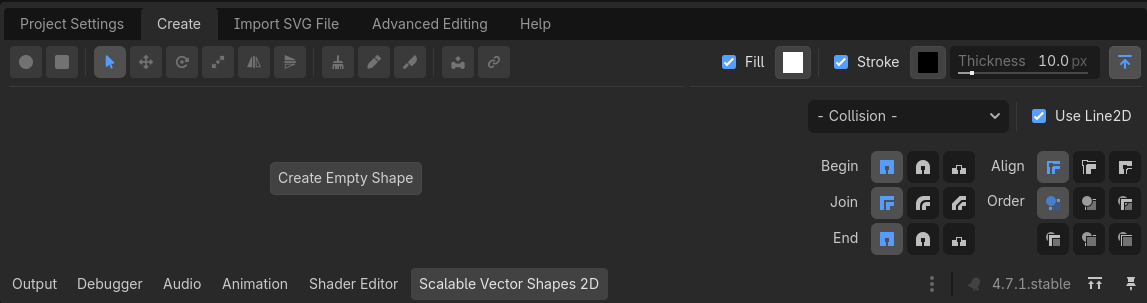
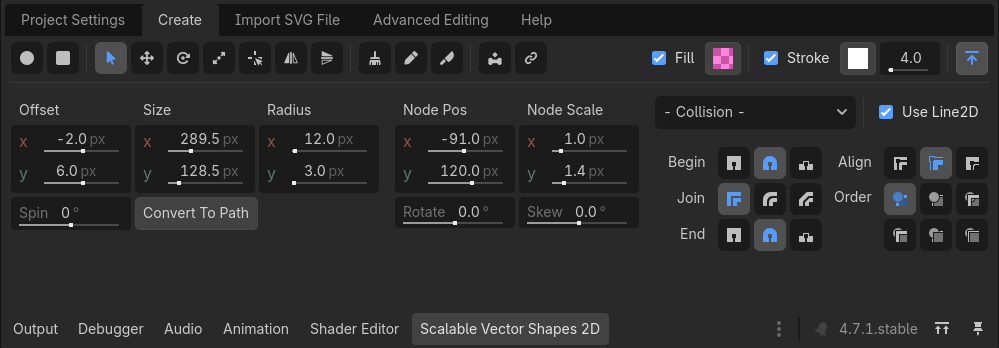
updates readme.

diff --git a/README.md b/README.md
@@ -87,6 +87,9 @@ You can find the rest of the explainer videos on this playlist:
 	- [Changing the width curve of a Stroke (`Line2D`-Stroke only)](#changing-the-width-curve-of-a-stroke-line2d-stroke-only)
 	- [Setting the pivot of your shape](#setting-the-pivot-of-your-shape)
 	- [Sticking two or more shapes together by vertex merge](#sticking-two-or-more-shapes-together-by-vertex-merge)
+- [The select tool settings form](#the-select-tool-settings-form)
+	- [Shape Type Settings](#shape-type-settings)
+	- [Node2D properties](#node2d-properties)
 - [Free-hand Drawing](#free-hand-drawing)
 	- [Drawing strokes and outlines with the Pencil Tool](#drawing-strokes-and-outlines-with-the-pencil-tool)
 		- [Pencil tool settings](#pencil-tool-settings)
@@ -192,10 +195,11 @@ In the next section all these tools are described in more detail:
 
 - [Create Ellipse](#the-create-ellipse-tool)
 - [Create Rectangle](#the-create-rectangle-tool)
-- Selection Tool (Q), also used for [manipulating shapes](#manipulating-shapes)
+- [Selection Tool](#manipulating-shapes) (Q), used for manipulating shapes
 - [Unform Translate](#moving-translating-all-the-points) (Z), which moves the points of the shape without moving the entire godot node
 - [Uniform Rotate](#rotating-all-the-points) (X), which rotates only the points and not the node
 - [Uniform Scale](#resizing-all-the-points) (C), which resizes the points without scaling the node
+- [Set Pivot](#setting-the-pivot-of-your-shape) (A), to set the shape's pivot
 - [Flip Horizontal and Vertical](#flipping-paths)
 - [Brush tool](#drawing-polygons-using-the-brush-tool) (Shift+B), with which you can paint with an Ellipse/Rectangle shaped brush
 - [Pencil tool](#drawing-strokes-and-outlines-with-the-pencil-tool) (Shift+N) to draw strokes, or outlines
@@ -461,10 +465,11 @@ Arcs are flipped by toggling negating the `sweep` flag of each listed arc.
 
 # Manipulating shapes
 
-The hints in the 2D viewport should have you covered, but this section lists all the operations available to you. You can also watch the chapter on sculpting paths on youtube:
+The hints in the 2D viewport should have you covered, but this section lists all the operations available to you.
 
-[![sculpting paths on youtube](./addons/curved_lines_2d/screenshots/sculpting-paths-on-youtube.png)](https://www.youtube.com/watch?v=z8Y1e-TehoE&t=710s)
+This [section from the A-Z Explainer video](https://www.youtube.com/watch?v=z8Y1e-TehoE&t=710s) demonstrates most operations, but some things have changed since then. Especially the layout in the bottom dock since release 3.0.1. 
 
+The select tool now also hosts [its own settings form](#the-select-tool-settings-form), to make some common properties easier to find than hidden away in the inspector.
 
 ## Adding a point to a shape
 
@@ -578,7 +583,11 @@ Press `Right click` while holding `Ctrl` to remove a width curve control point:
 
 ## Setting the pivot of your shape
 
-You can use the `Change pivot` mode to change the origin of your shape, just like you would a `Sprite2D`. In this case, the 'pivot' will actually be the `position` property of you `ScalableVectorShape2D` node.
+You can use the `Change pivot` mode to change the origin of your shape, just like you would a `Sprite2D`. 
+
+This same tool is also available from the bottom dock and via the Shortcut A.
+
+In this case, the 'pivot' will actually be the `position` property of you `ScalableVectorShape2D` node.
 
 This rat will want to rotate it's head elsewhere:
 
@@ -587,6 +596,9 @@ This rat will want to rotate it's head elsewhere:
 Like this:
 
 ![set origin 2](./addons/curved_lines_2d/screenshots/16a-set_origin.png)
+
+Note that child nodes of the shape will also move position, unless they're the assigned polygon and line nodes.
+
 
 ## Sticking two or more shapes together by vertex merge
 
@@ -601,6 +613,32 @@ This allows you to link one point of 2 or more shapes together, so they will now
 This action create a new instance of the `SVSVertexMerge2D` node. Delete this node to break the link between points.
 
 ![merge 2 points](./addons/curved_lines_2d/screenshots/svs_vertex_merge_2d_node.png)
+
+
+# The select tool settings form
+
+When a `ScalableVectorShape2D` node is selected during select mode some of its most common properties can be altered in the bottom dock (besides the inspector).
+
+![Select Tool Form](./addons/curved_lines_2d/screenshots/select-tool-form.png)
+
+## Shape Type Settings
+
+The fields here are the same as the [shape type settings](#the-shape-type-inspector-form) in the inspector and only work on primitve rectangles and ellipses:
+
+- Offset: this represents the position of the pivot relative to the shape's natural center.
+- Size: the box size of the entire shape (stroke thickness excluded)
+- Radius: the radius of the shape in case of ellipses and radius of rounded corners in case of rectangles.
+- Spin: the shape's rotation relative to its natural center
+
+There is also a "convert to path" button which turns the shape into a Bézier curve. This operation cannot be properly undone.
+
+## Node2D properties
+
+- Node Pos: this is the [`Node2D.position`](https://docs.godotengine.org/en/stable/classes/class_node2d.html#class-node2d-property-position)
+- Node Scale: this is the [`Node2D.scale`](https://docs.godotengine.org/en/stable/classes/class_node2d.html#class-node2d-property-scale)
+- Rotate: this is the [`Node2D.rotation`](https://docs.godotengine.org/en/stable/classes/class_node2d.html#class-node2d-property-rotation)
+- Skew: this is the [`Node2D.skew`](https://docs.godotengine.org/en/stable/classes/class_node2d.html#class-node2d-property-skew)
+
 
 # Free-hand Drawing
 

diff --git a/addons/curved_lines_2d/README.md b/addons/curved_lines_2d/README.md
@@ -87,6 +87,9 @@ You can find the rest of the explainer videos on this playlist:
   - [Changing the width curve of a Stroke (`Line2D`-Stroke only)](#changing-the-width-curve-of-a-stroke-line2d-stroke-only)
   - [Setting the pivot of your shape](#setting-the-pivot-of-your-shape)
   - [Sticking two or more shapes together by vertex merge](#sticking-two-or-more-shapes-together-by-vertex-merge)
+- [The select tool settings form](#the-select-tool-settings-form)
+  - [Shape Type Settings](#shape-type-settings)
+  - [Node2D properties](#node2d-properties)
 - [Free-hand Drawing](#free-hand-drawing)
   - [Drawing strokes and outlines with the Pencil Tool](#drawing-strokes-and-outlines-with-the-pencil-tool)
     - [Pencil tool settings](#pencil-tool-settings)
@@ -192,10 +195,11 @@ In the next section all these tools are described in more detail:
 
 - [Create Ellipse](#the-create-ellipse-tool)
 - [Create Rectangle](#the-create-rectangle-tool)
-- Selection Tool (Q), also used for [manipulating shapes](#manipulating-shapes)
+- [Selection Tool](#manipulating-shapes) (Q), used for manipulating shapes
 - [Unform Translate](#moving-translating-all-the-points) (Z), which moves the points of the shape without moving the entire godot node
 - [Uniform Rotate](#rotating-all-the-points) (X), which rotates only the points and not the node
 - [Uniform Scale](#resizing-all-the-points) (C), which resizes the points without scaling the node
+- [Set Pivot](#setting-the-pivot-of-your-shape) (A), to set the shape's pivot
 - [Flip Horizontal and Vertical](#flipping-paths)
 - [Brush tool](#drawing-polygons-using-the-brush-tool) (Shift+B), with which you can paint with an Ellipse/Rectangle shaped brush
 - [Pencil tool](#drawing-strokes-and-outlines-with-the-pencil-tool) (Shift+N) to draw strokes, or outlines
@@ -461,10 +465,11 @@ Arcs are flipped by toggling negating the `sweep` flag of each listed arc.
 
 # Manipulating shapes
 
-The hints in the 2D viewport should have you covered, but this section lists all the operations available to you. You can also watch the chapter on sculpting paths on youtube:
+The hints in the 2D viewport should have you covered, but this section lists all the operations available to you.
 
-[![sculpting paths on youtube](./screenshots/sculpting-paths-on-youtube.png)](https://www.youtube.com/watch?v=z8Y1e-TehoE&t=710s)
+This [section from the A-Z Explainer video](https://www.youtube.com/watch?v=z8Y1e-TehoE&t=710s) demonstrates most operations, but some things have changed since then. Especially the layout in the bottom dock since release 3.0.1. 
 
+The select tool now also hosts [its own settings form](#the-select-tool-settings-form), to make some common properties easier to find than hidden away in the inspector.
 
 ## Adding a point to a shape
 
@@ -578,7 +583,11 @@ Press `Right click` while holding `Ctrl` to remove a width curve control point:
 
 ## Setting the pivot of your shape
 
-You can use the `Change pivot` mode to change the origin of your shape, just like you would a `Sprite2D`. In this case, the 'pivot' will actually be the `position` property of you `ScalableVectorShape2D` node.
+You can use the `Change pivot` mode to change the origin of your shape, just like you would a `Sprite2D`. 
+
+This same tool is also available from the bottom dock and via the Shortcut A.
+
+In this case, the 'pivot' will actually be the `position` property of you `ScalableVectorShape2D` node.
 
 This rat will want to rotate it's head elsewhere:
 
@@ -587,6 +596,9 @@ This rat will want to rotate it's head elsewhere:
 Like this:
 
 ![set origin 2](./screenshots/16a-set_origin.png)
+
+Note that child nodes of the shape will also move position, unless they're the assigned polygon and line nodes.
+
 
 ## Sticking two or more shapes together by vertex merge
 
@@ -601,6 +613,32 @@ This allows you to link one point of 2 or more shapes together, so they will now
 This action create a new instance of the `SVSVertexMerge2D` node. Delete this node to break the link between points.
 
 ![merge 2 points](./screenshots/svs_vertex_merge_2d_node.png)
+
+
+# The select tool settings form
+
+When a `ScalableVectorShape2D` node is selected during select mode some of its most common properties can be altered in the bottom dock (besides the inspector).
+
+![Select Tool Form](./screenshots/select-tool-form.png)
+
+## Shape Type Settings
+
+The fields here are the same as the [shape type settings](#the-shape-type-inspector-form) in the inspector and only work on primitve rectangles and ellipses:
+
+- Offset: this represents the position of the pivot relative to the shape's natural center.
+- Size: the box size of the entire shape (stroke thickness excluded)
+- Radius: the radius of the shape in case of ellipses and radius of rounded corners in case of rectangles.
+- Spin: the shape's rotation relative to its natural center
+
+There is also a "convert to path" button which turns the shape into a Bézier curve. This operation cannot be properly undone.
+
+## Node2D properties
+
+- Node Pos: this is the [`Node2D.position`](https://docs.godotengine.org/en/stable/classes/class_node2d.html#class-node2d-property-position)
+- Node Scale: this is the [`Node2D.scale`](https://docs.godotengine.org/en/stable/classes/class_node2d.html#class-node2d-property-scale)
+- Rotate: this is the [`Node2D.rotation`](https://docs.godotengine.org/en/stable/classes/class_node2d.html#class-node2d-property-rotation)
+- Skew: this is the [`Node2D.skew`](https://docs.godotengine.org/en/stable/classes/class_node2d.html#class-node2d-property-skew)
+
 
 # Free-hand Drawing
 
